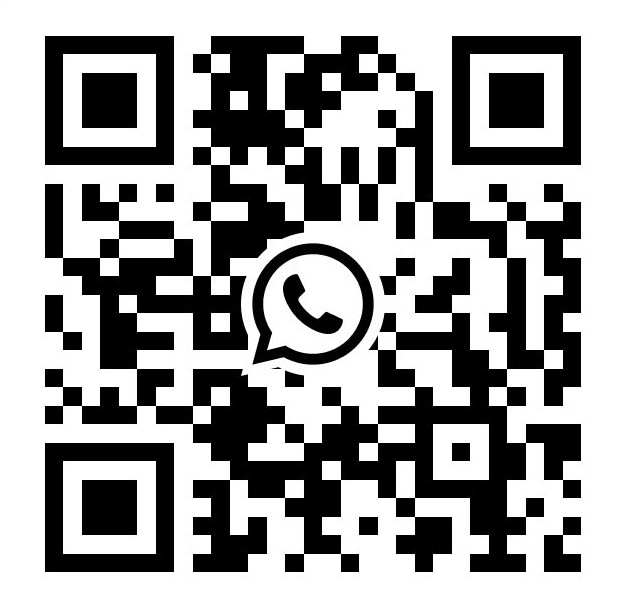
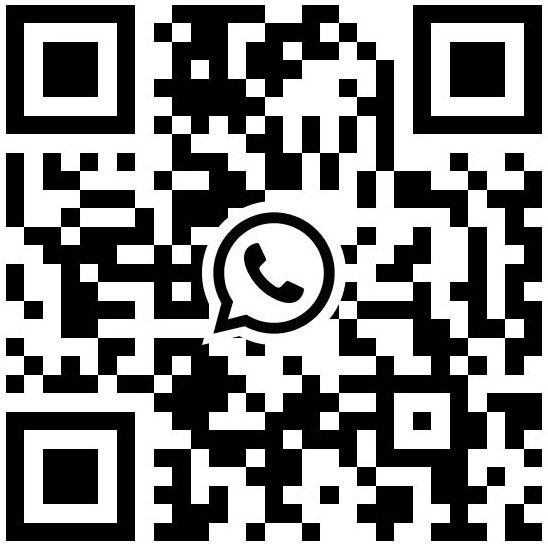
enhancement QR

diff --git a/src/routes/contact.tsx b/src/routes/contact.tsx
@@ -1,4 +1,5 @@
 import { createFileRoute } from "@tanstack/react-router";
+import { useEffect, useRef } from "react";
 import { motion } from "motion/react";
 import { ScanLine } from "lucide-react";
 import { SiteLayout } from "@/components/auria/SiteShell";
@@ -6,16 +7,83 @@ import { ContactSection } from "@/components/auria/AuriaHome";
 import qrWechat from "@/assets/WhatsApp Image 2026-09-05 at 20.40.35.jpeg";
 import qrWhatsapp from "@/assets/WhatsApp Image 2026-09-05 at 20.40.34.jpeg";
 
+/** Renders a QR image with its white background knocked out to transparent, so
+ *  the (coloured) modules sit directly on the dark card instead of a white box.
+ *  Done on a canvas at load time; the source JPEGs have no alpha channel. */
+function QrImage({
+  src,
+  alt,
+  recolorDark,
+}: {
+  src: string;
+  alt: string;
+  // If set, the (dark) QR modules are recoloured to this [r,g,b] so they stay
+  // visible on the dark card — used for black-on-white QRs. Omit to keep the
+  // source colours (e.g. the violet WeChat code).
+  recolorDark?: [number, number, number];
+}) {
+  const ref = useRef<HTMLCanvasElement>(null);
+  useEffect(() => {
+    const canvas = ref.current;
+    if (!canvas) return;
+    let cancelled = false;
+    const img = new Image();
+    img.decoding = "async";
+    img.onload = () => {
+      if (cancelled) return;
+      const w = img.naturalWidth;
+      const h = img.naturalHeight;
+      canvas.width = w;
+      canvas.height = h;
+      const ctx = canvas.getContext("2d");
+      if (!ctx) return;
+      ctx.drawImage(img, 0, 0);
+      const image = ctx.getImageData(0, 0, w, h);
+      const px = image.data;
+      for (let i = 0; i < px.length; i += 4) {
+        const r = px[i] ?? 0;
+        const g = px[i + 1] ?? 0;
+        const b = px[i + 2] ?? 0;
+        // Near-white (incl. JPEG's slightly-off-white halo) → fully transparent.
+        if (r > 200 && g > 200 && b > 200) {
+          px[i + 3] = 0;
+        } else if (recolorDark) {
+          px[i] = recolorDark[0];
+          px[i + 1] = recolorDark[1];
+          px[i + 2] = recolorDark[2];
+        }
+      }
+      ctx.putImageData(image, 0, 0);
+    };
+    img.src = src;
+    return () => { cancelled = true; };
+  }, [src, recolorDark]);
+  return (
+    <canvas
+      ref={ref}
+      role="img"
+      aria-label={alt}
+      className="h-full w-full select-none"
+      style={{ imageRendering: "pixelated" }}
+    />
+  );
+}
+
+// Near-white light tone for recolouring dark (black) QR modules on the dark card.
+const QR_LIGHT: [number, number, number] = [232, 236, 244];
+
 function QrCard({
   src,
   label,
   handle,
   tone,
+  recolorDark,
 }: {
   src: string;
   label: string;
   handle: string;
   tone: "green" | "blue";
+  recolorDark?: [number, number, number];
 }) {
   const color = tone === "green" ? "#10B981" : "#3B82F6";
   return (
@@ -37,7 +105,7 @@ function QrCard({
         </span>
       </div>
 
-      <div className="relative mx-auto mt-6 grid aspect-square w-full max-w-[320px] place-items-center bg-white p-4">
+      <div className="relative mx-auto mt-6 grid aspect-square w-full max-w-[320px] place-items-center p-4">
         <span
           aria-hidden
           className="pointer-events-none absolute left-2 top-2 size-4 border-l-2 border-t-2"
@@ -58,15 +126,7 @@ function QrCard({
           className="pointer-events-none absolute right-2 bottom-2 size-4 border-r-2 border-b-2"
           style={{ borderColor: color }}
         />
-        <img
-          src={src}
-          alt={`${label} QR code`}
-          loading="lazy"
-          decoding="async"
-          className="h-full w-full select-none object-contain"
-          draggable={false}
-          style={{ imageRendering: "pixelated" }}
-        />
+        <QrImage src={src} alt={`${label} QR code`} {...(recolorDark ? { recolorDark } : {})} />
       </div>
 
       <div className="mono mt-6 flex items-center justify-between border-t border-line pt-3 text-[10px] uppercase tracking-widest text-sub-muted">
@@ -112,6 +172,7 @@ function QrSection() {
             label="WhatsApp"
             handle="AURIA · Global desk"
             tone="green"
+            recolorDark={QR_LIGHT}
           />
         </div>
       </div>

diff --git a/src/components/auria/TradeGlobe.tsx b/src/components/auria/TradeGlobe.tsx
@@ -172,9 +172,24 @@ export function TradeGlobe() {
   // Runs when the globe reports ready — the lazy component populates the ref
   // asynchronously, so a mount effect would fire too early.
   const handleReady = () => {
-    const g = globeRef.current;
-    if (!g) return;
+    // Reveal the globe unconditionally first. onGlobeReady can fire a tick
+    // before React attaches globeRef; gating the reveal on the ref meant an
+    // occasional null slipped through and the Earth never faded in (stayed
+    // blank). Camera/controls setup is retried below until the ref is present.
     setReady(true);
+    let attempts = 0;
+    const setup = () => {
+      const g = globeRef.current;
+      if (!g) {
+        if (attempts++ < 60) requestAnimationFrame(setup);
+        return;
+      }
+      setupControls(g);
+    };
+    setup();
+  };
+
+  const setupControls = (g: NonNullable<typeof globeRef.current>) => {
     // Gentle zoom-in: start a little further out, then ease to the resting
     // altitude over ~2.2s so the Earth glides into place rather than snapping.
     g.pointOfView({ lat: 22, lng: 114, altitude: 3.4 }, 0);

diff --git a/src/components/auria/AuriaHome.tsx b/src/components/auria/AuriaHome.tsx
@@ -882,7 +882,6 @@ function Hero() {
                 <span className="status-dot" style={{ background: "#10B981", color: "#10B981" }} />
                 China → Global
               </span>
-              <span className="status-badge tone-muted">Bilingue FR · EN</span>
             </div>
 
             <h1 className="mt-5 select-none font-sans font-bold tracking-[-0.025em] text-heading text-[32px] leading-[1.05] sm:mt-6 sm:text-[46px] sm:leading-[1.06] md:text-[70px]">
